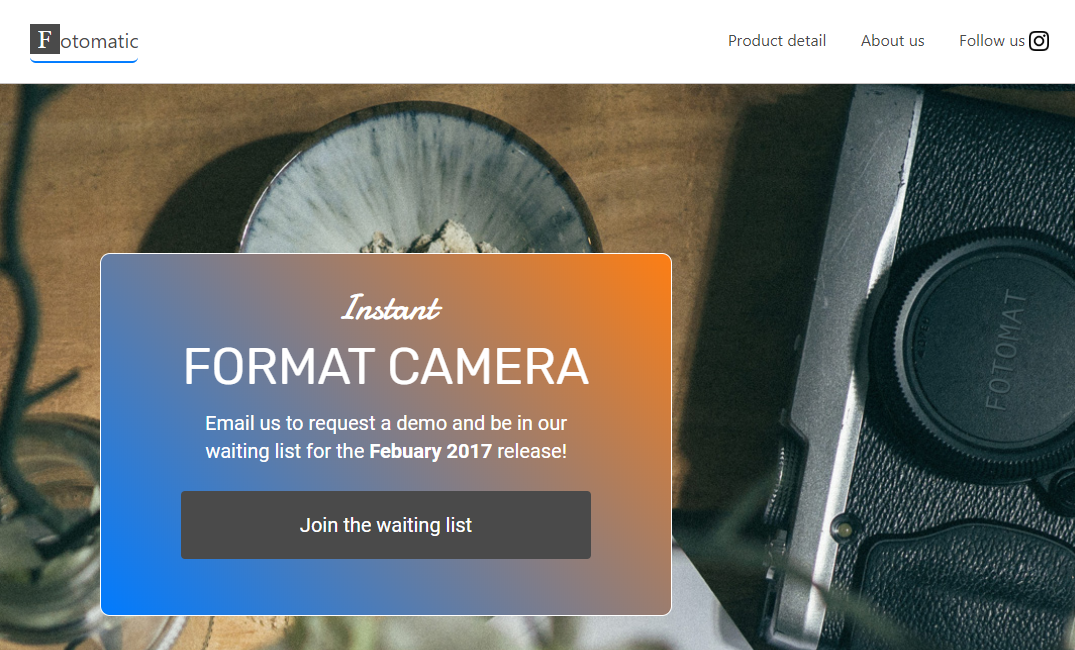
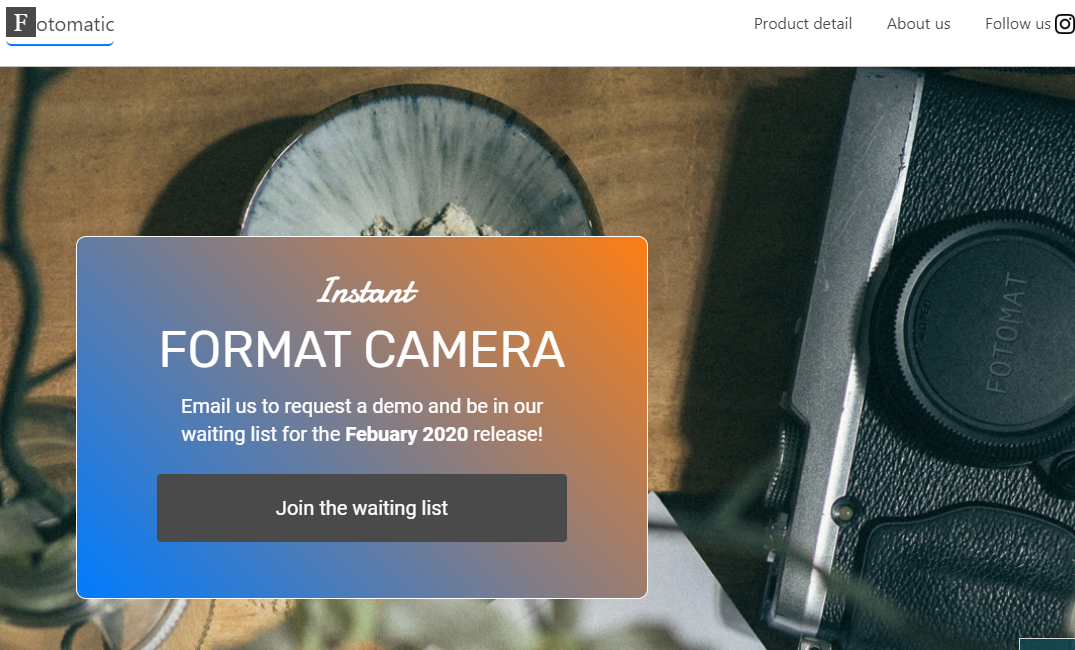
v2.1

diff --git a/portofolio/fotomatic/index.html b/portofolio/fotomatic/index.html
@@ -70,7 +70,7 @@
           <h1 class="striking">FORMAT CAMERA</h1>
         </div>
         <div class="email">
-          <span>Email us to request a demo and be in our waiting list for the <strong>Febuary 2017</strong> release!</span>
+          <span>Email us to request a demo and be in our waiting list for the <strong>Febuary 2020</strong> release!</span>
           <a href="#"><div class="button">Join the waiting list</div></a>
         </div>
       </div>
@@ -140,7 +140,7 @@
     <!-- Footer -->
     <footer class="container-fluid">
       <div class="content">
-        <span class="copyright">© 2016  Fotomatic, All Rights Reserved</span>
+        <span class="copyright">© 2019  Fotomatic, All Rights Reserved</span>
         <span class="location">Designed in NYC</span>
       </div>
     </footer>
